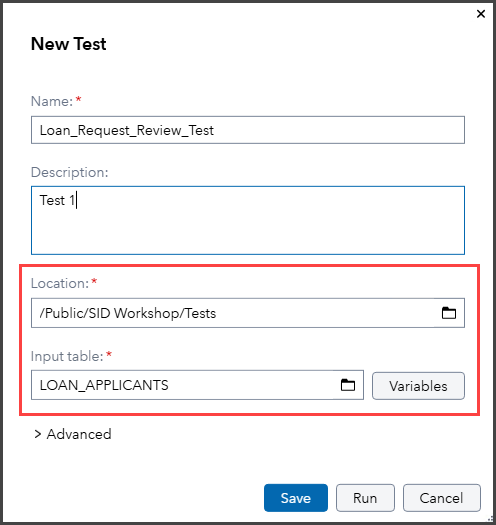
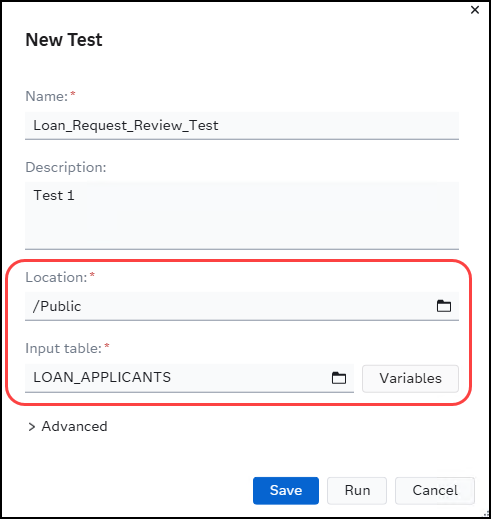
updated Decision steps

Changed region(s): [[0.0, 0.0, 1.0, 1.0], [0.0611, 0.185, 0.947, 0.2775]]

diff --git a/Getting_Started_with_SAS_Intelligent_Decisioning.md b/Getting_Started_with_SAS_Intelligent_Decisioning.md
@@ -192,7 +192,8 @@ Select **No** when prompted about accepting *Admin* privileges.
 
    ![Test output](images/TestOutput.png)
 
-1. Click **x** to close the test and the rule set.
+1. Click **x** close the test.
+1. Click **x** to close the rule set.
 
 <br>
 
@@ -286,7 +287,8 @@ Select **No** when prompted about accepting *Admin* privileges.
 
    ![DS2 test output](images/DS2TestOutput.png)
 
-1. Click **x** to close the test and the code file.
+1. Click **x** close the test.
+1. Click **x** to close the code file.
 
 <br>
 
@@ -334,9 +336,9 @@ Select **No** when prompted about accepting *Admin* privileges.
 1. Navigate to the **SAS Content &#10132; Public** folder.
 1. Select the **Additional_Review** DS2 code file and click **OK** to add the selected file to the decision.
 
-     ![Select DS2](images/SelectDS2.png)
+     ![Select DS2](images/SelectedDS2.png)
 
-1. Click **Save** to save the decision.
+1. Click ![Save button](images/SaveButton.png) to save the decision.
 1. Click **Validate** to validate the decision.
 
    ![Validate](images/Validate.png)
@@ -351,7 +353,6 @@ Select **No** when prompted about accepting *Admin* privileges.
    * Name: **Loan_Request_Review_Test**
    * Description: **Test 1**
    * Location: **/Public**
-      > &#9755; Select ![Folder icon](images/FolderIcon.png) to navigate to *SAS Content/SID Workshop/Tests*.
    * Input table: **LOAN_APPLICANTS**.
 
    ![Test Decision](images/TestDecision.png)
@@ -360,17 +361,26 @@ Select **No** when prompted about accepting *Admin* privileges.
 1. Check the newly created test and click **Run** to run the specified test.
 1. Once the test run is complete, select ![Result table](images/ResultTable.png) to view the test results.
 1. Review the results on the *Output* tab.
+1. Select **Actions &#10132; Explore and Visualize** to open the output table in *SAS Visual Analytics*.
 
    ![Decision test output](images/DecisionTestOutput.png)
 
-1. ***View results in VA***
-1. x
-1. Click **x** to close the test and the decision.
+1. Double-click the **STATUS** category to add its values to the report template.
+1. Review the resulting bar chart.
+
+   ![VA Report for Status](images/VAStatusBar.png)
+
+   > &#9755; Select each bar on the report to view the number of records for each status.
+
+1. Select **Opened reports &#10132; Close all reports**.
+1. Click **Don't save** on the warning dialog.
+1. Select ![Viya Menu Selector](images/HamburgerMenu.png) **&#10132; Build Decisions** to navigate back to *SAS Intelligent Decisioning*.
+1. Click **x** close the test.
+1. Click **x** to close the decision.
 
 <br>
 
 ## Exercise Completed
-
 You have completed the exercise for **Getting Started with SAS Intelligent Decisioning**.
 
 **THANK YOU FOR ATTENDING THIS SESSION!** <br>
